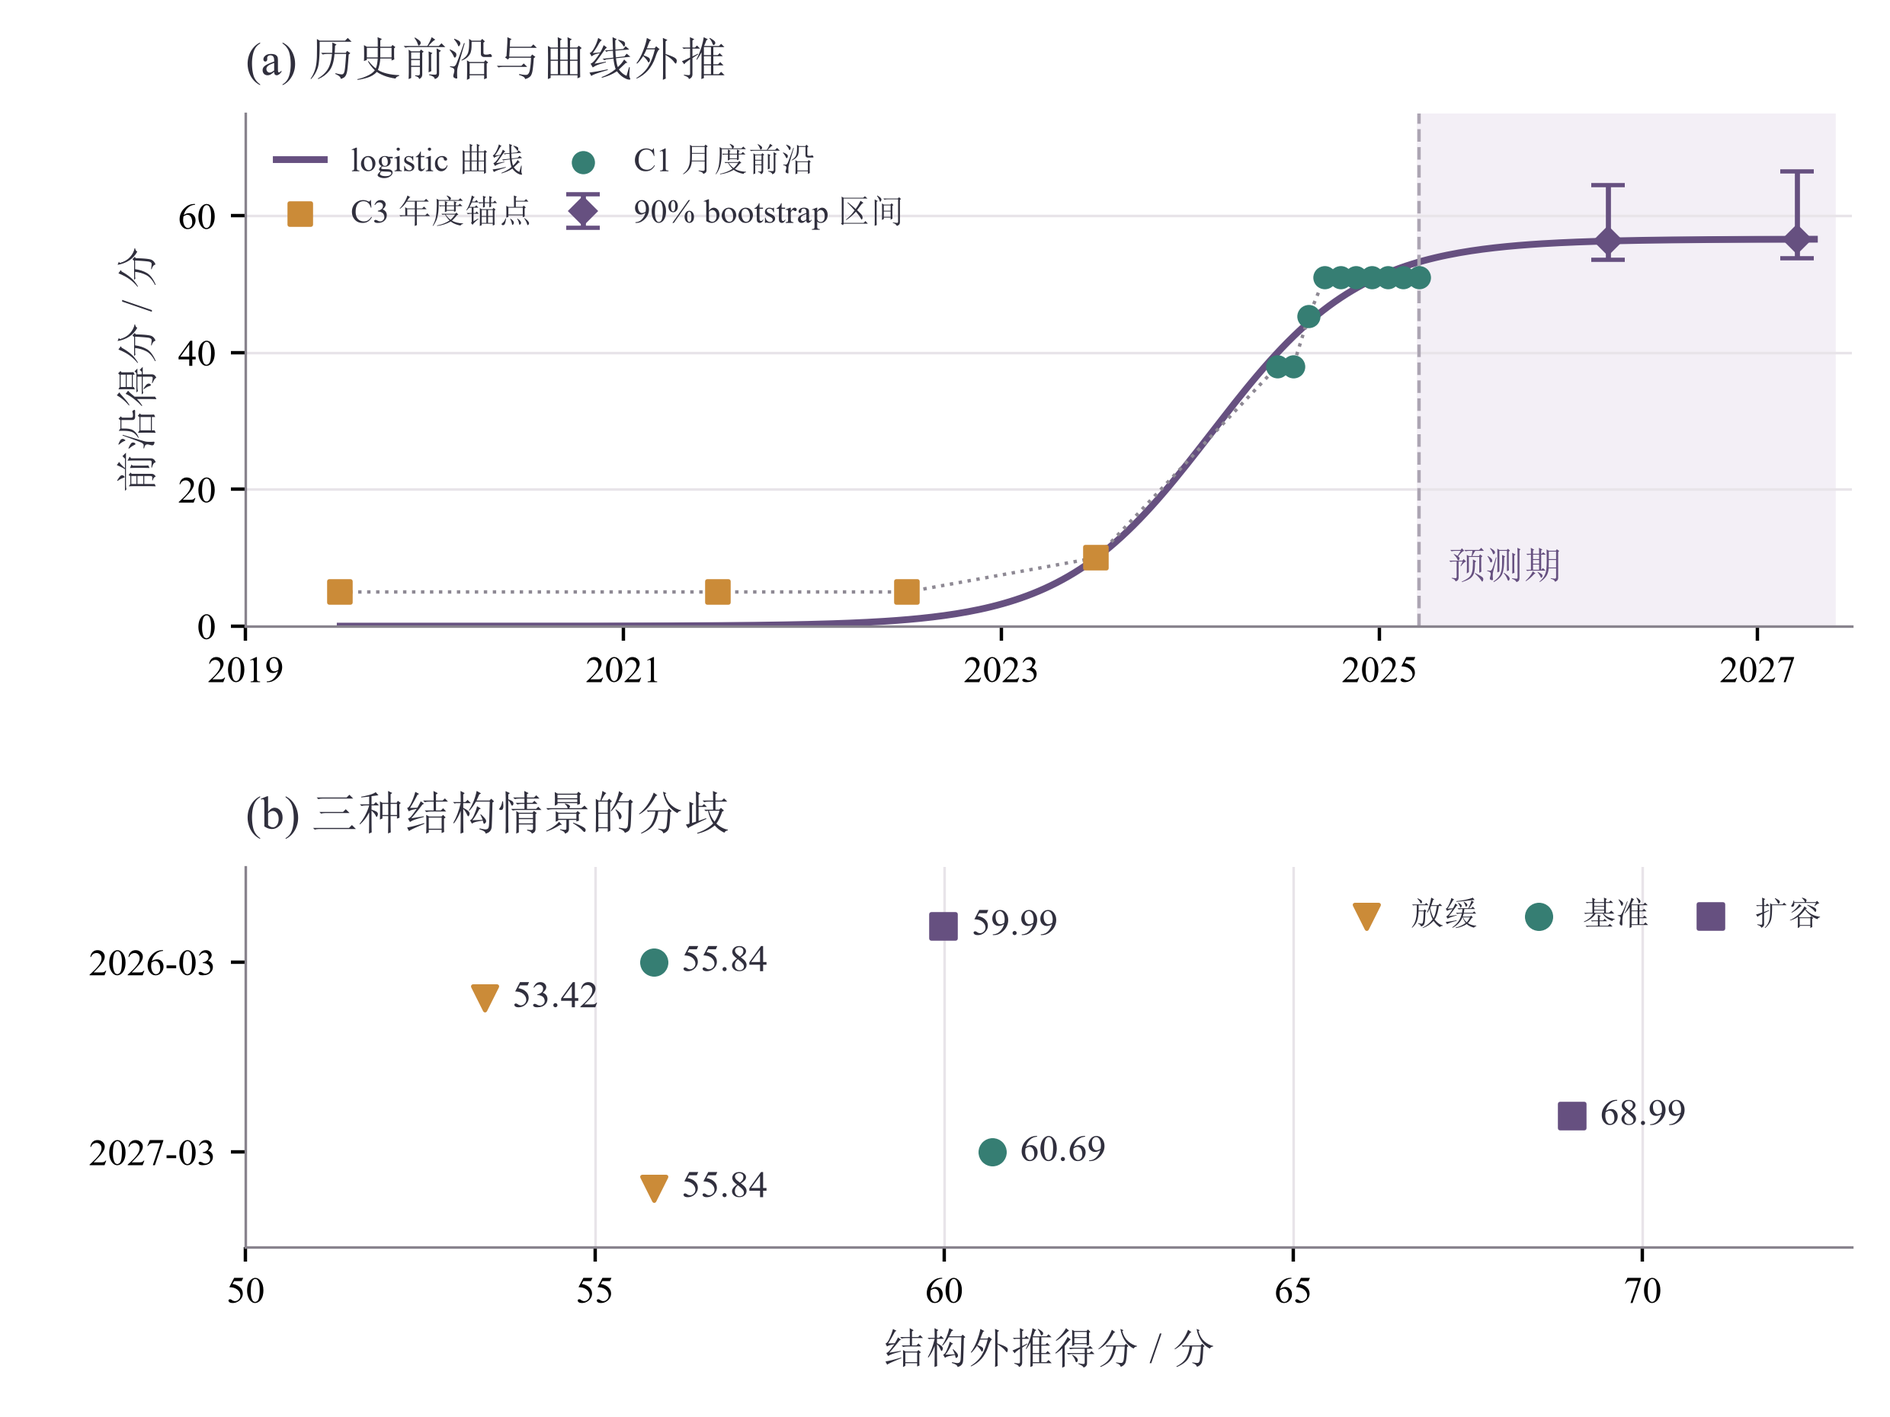
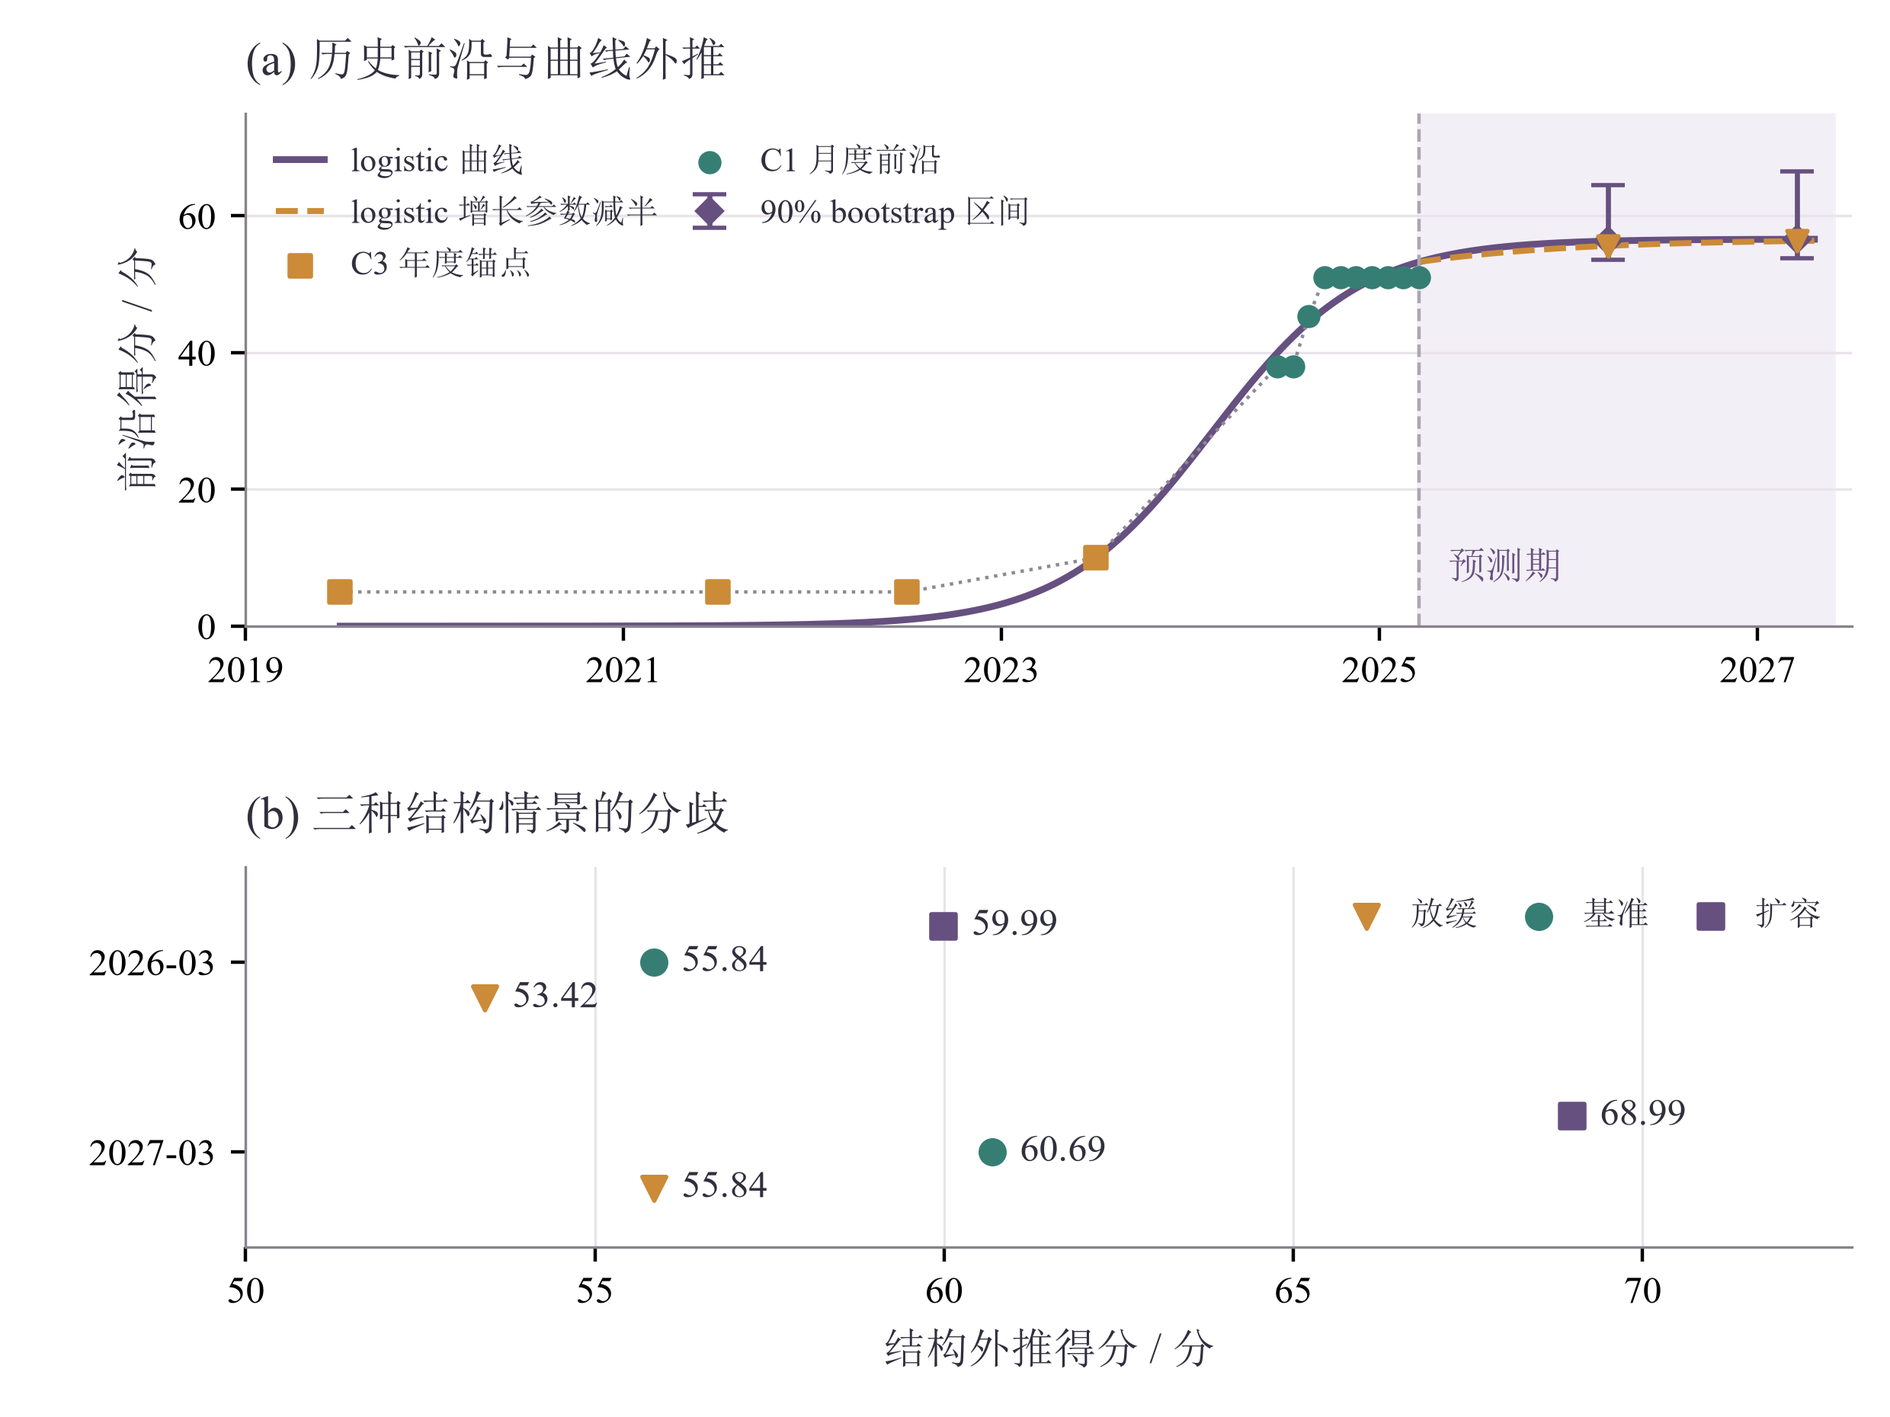
Align quality normalization and correct slowed logistic forecasts

Changed region(s): [[0.1552, 0.0935, 0.5589, 0.2183], [0.8383, 0.1559, 0.9625, 0.1871], [0.7762, 0.1559, 0.8073, 0.1871]]

diff --git a/论文/0.摘要.tex b/论文/0.摘要.tex
@@ -7,13 +7,13 @@
 
 训练算力有限时，多加参数、多用数据和提高语料质量会争用同一笔预算。怎样安排这些投入，才能取得较好的训练效果，是本文要解决的主要问题。我们从附件中的文本质量信号入手，先比较语料与配方，再分析投入对损失的影响，据此计算预算内的配置，最后讨论评测能力的历史变化和未来前沿。
 
-\textbf{针对问题一：} 先把 22 个指标整理为同向评分，再以熵权法逐层求出文本、语料和领域质量。列表型指标按类别数转为标量后作极差归一化，272,505 条记录中的 19 处缺失以中位数补齐；广告字段经原文抽查，确认“第 1 类=无广告”，按正向处理。指标分歧从两方面判断：成对标准化得分差衡量样本内的差别，Kendall 协同系数衡量整体排序的一致性；对标记出的冲突样本，再比较综合评分与所属领域中位数作判定。结果中，冲突比例为 22.3\%，独立参照为 28.9\%，但 Kendall 系数只有 0.069，可见存在共同倾向并不等于高度一致。从领域均分看，arxiv 位居首位，github 最低；中间由高到低为 stackexchange、c4、commoncrawl，随后是分数接近的 book 与 wikipedia。抽样与扩展记录的对照也较接近：arxiv 在 A1、A2/A3 中分别为 0.703、0.701，github 均为 0.455。配比部分用岭正则线性混合回归连接 17 个训练域与 13 个验证域。训练与 1M 同尺度检验的平均决定系数分别为 0.629 和 0.619；转到 60M、1B 后，以 Pearson 相关评价跨尺度趋势，对应为 0.782、0.651。加入混合质量指数仅使决定系数增加 0.000099，故另行考察质量投入，不在配比回归中重复加入这一线性组合。
+\textbf{针对问题一：} 先把 22 个指标整理为同向评分，再以熵权法逐层求出文本、语料和领域质量。列表型指标按类别数转为标量，质量指标采用 1\%--99\% 分位数截断归一化，272,505 条记录中的 19 处缺失以中位数补齐；广告字段经原文抽查，确认“第 1 类=无广告”，按正向处理。指标分歧从两方面判断：成对标准化得分差衡量样本内的差别，Kendall 协同系数衡量整体排序的一致性；对标记出的冲突样本，再比较综合评分与所属领域中位数作判定。结果中，冲突比例为 22.3\%，独立参照为 28.9\%，但 Kendall 系数只有 0.069，可见存在共同倾向并不等于高度一致。从领域均分看，arxiv 位居首位，github 最低；中间由高到低为 stackexchange、c4、commoncrawl，随后是分数接近的 book 与 wikipedia。抽样与扩展记录的对照也较接近：arxiv 在 A1、A2/A3 中分别为 0.703、0.701，github 均为 0.455。配比部分用岭正则线性混合回归连接 17 个训练域与 13 个验证域。训练与 1M 同尺度检验的平均决定系数分别为 0.629 和 0.619；转到 60M、1B 后，以 Pearson 相关评价跨尺度趋势，对应为 0.782、0.651。加入混合质量指数仅使决定系数增加 0.000099，故另行考察质量投入，不在配比回归中重复加入这一线性组合。
 
 \textbf{针对问题二：} 为判断改善语料能否代替部分规模投入，用 Pythia 轨迹建立经典标度律，经稳健非线性最小二乘拟合后，留出大模型检验。质量项则通过半合成实验比较四种形式，最终采用加性质量缺口项。经典拟合的决定系数为 0.9999998，广义模型在联合样本上为 0.9896；换用跨族、文献记录时，MAPE 分别为 8.8\%、8.0\%。在质量均为 0.6 时，模型导数给出的局部质量--参数替代率随起点明显变化：1B 参数配 100B tokens 时为 2.844 B/单位质量，12B 参数配 300B tokens 时为 76.838 B/单位质量。对于较大的质量增量，另用完整等损失关系求解，并给出有限等效解的条件。领域之间则先比较系数的中心化余弦相似度，再在损失尺度可迁移的前提下引入配比修正。B9/B10 的 128 条匹配记录用于对照大规模估算关系；质量效应的解释范围仍由半合成实验和跨来源尺度假设限定。
 
 \textbf{针对问题三：} 以问题二的损失为目标，把基础训练、语料质量处理和注意力费用合并为预算约束，固定配比后采用 SLSQP 求解。基准采用幂函数型质量成本、参考配比和 2048 tokens 上下文。三档预算给出的配置分属两个阶段：在 10 的 19 次方 FLOPs 下，0.225B 参数与 6.9B tokens 对应的质量仍为基线 0.551；在 10 的 22 次方和 10 的 24 次方 FLOPs 下，质量都达到 1.000，前者配置为 6.089B 参数、229.5B tokens，后者为 44.937B 参数、3418.0B tokens。进一步扫描预算，发现质量先维持基线，再逐步提高，最后达到上界。首次投入和首次饱和的有效网格点为 1.78×10 的 19 次方、7.08×10 的 19 次方 FLOPs，后一点的质量费用份额也达到最高值 40.7\%；网格只能定位阶段，不能确定精确临界值。成本公式还给出 30,000 tokens 的等费用长度。固定 10 的 22 次方 FLOPs，上下文由 2048 延长到 131072 tokens，参数配置由 6.089B 减至 2.705B，损失约上升 6.0\%。更换三类质量成本后，中高预算档均达到质量上界，低预算方案却有明显差别，因而仍需结合实际成本、评分衔接和外推范围使用。
 
-\textbf{针对问题四：} 按记录时间和许可白名单整理出 2,346 条主样本，用六项评测的均值表示综合能力，并对预训练类、对话及微调类分别分析。C6 的分层回归显示，损失与得分的 Pearson 相关为 −0.510，决定系数仅 0.26，因此只判断变化方向，不作精确换算。规模与年度回归得到：参数每扩大十倍，对应 13.84 分差异；规模相同时，年度变化为 4.84 分。历史分解显示出时间窗口的差别：C3 对应的 2019—2025 年增量中，规模项占 50.5\%，非规模项占 49.5\%；2024 年 6—9 月窗口的非规模项则占 95.4\%。非规模项还包含样本构成等未观测影响。以前沿在 2025 年 3 月的位置为起点，logistic 曲线预测 12、24 个月后为 56.3、56.6 分，90\% 区间依次为 53.6 至 64.5、53.8 至 66.5；结构情景若将非规模增速减半，则为 53.4、55.8 分。为进一步寻找短板，从 C8 有效解析的 1,860 个目录中取与主样本对应的 964 个目录，汇总 37 项子任务，并用 C4 观察宏观资源及字段覆盖。六维结果中，指令遵循距满分 10.0 分，研究生级问答、多步推理仍差 72.3、61.3 分，表明综合前沿上升并不意味着各项能力同步改善。
+\textbf{针对问题四：} 按记录时间和许可白名单整理出 2,346 条主样本，用六项评测的均值表示综合能力，并对预训练类、对话及微调类分别分析。C6 的分层回归显示，损失与得分的 Pearson 相关为 −0.510，决定系数仅 0.26，因此只判断变化方向，不作精确换算。规模与年度回归得到：参数每扩大十倍，对应 13.84 分差异；规模相同时，年度变化为 4.84 分。历史分解显示出时间窗口的差别：C3 对应的 2019—2025 年增量中，规模项占 50.5\%，非规模项占 49.5\%；2024 年 6—9 月窗口的非规模项则占 95.4\%。非规模项还包含样本构成等未观测影响。以前沿在 2025 年 3 月的位置为起点，logistic 曲线预测 12、24 个月后为 56.3、56.6 分，90\% 区间依次为 53.6 至 64.5、53.8 至 66.5；若将 logistic 增长参数减半，则为 55.6、56.3 分，结构情景将非规模增速减半时则为 53.4、55.8 分。为进一步寻找短板，从 C8 有效解析的 1,860 个目录中取与主样本对应的 964 个目录，汇总 37 项子任务，并用 C4 观察宏观资源及字段覆盖。六维结果中，指令遵循距满分 10.0 分，研究生级问答、多步推理仍差 72.3、61.3 分，表明综合前沿上升并不意味着各项能力同步改善。
 
 从上述结果看，质量应在何时投入、投入多少，都与预算和处理费用有关；模型扩容的收益也离不开数据条件。跨来源比较和未来预测仍有误差，使用具体数值时应同时保留相应条件。
 

diff --git a/论文/5.1.问题一.tex b/论文/5.1.问题一.tex
@@ -30,15 +30,20 @@ A4 与 A5 分别记录训练配方及其对应的验证损失，通过 index 关
 
 按索引关联的作用，是把同一次实验的输入配方与输出损失放在同一行。训练领域数与验证领域数不同，反映的是输入覆盖范围和评价任务覆盖范围的差别。缺少某个领域的验证列，并不意味着该领域没有进入训练；它在其他验证任务上的作用仍可通过配方占比参与拟合。后面的推荐模型据此区分可调整领域与固定参考占比的领域，使评价对象、拟合输入和优化变量之间保持对应。
 
-A1--A3 提供 SlimPajama 语料的 22 个质量指标\cite{slimpajama2025}。为使各指标能够共同参与评分，需要统一其方向。设第 $j$ 个指标的原始值为 $x_j$，正向指标作极差归一化，负向指标反向缩放；对于过长或过短均不合适的长度型指标，使用其与稳健中心的接近程度表示质量：
+A1--A3 提供 SlimPajama 语料的 22 个质量指标\cite{slimpajama2025}。列表值先转为标量，非有限值视为缺失并按全量记录中该指标的中位数填补。设处理后的值为 $x_{ij}$。对于过长或过短均不合适的长度型指标，先以稳健中心接近度作变换；其余指标保留原值：
 \begin{equation}
-    x'_j = \begin{cases}
-        \dfrac{x_j-\min x_j}{\max x_j-\min x_j}, & \text{正向指标}\\[6pt]
-        \dfrac{\max x_j-x_j}{\max x_j-\min x_j}, & \text{负向指标}\\[6pt]
-        \exp\!\left(-\dfrac{|\ln(1+x_j)-m_j|}{2.5\,\text{MAD}_j}\right), & \text{长度型指标}
+    u_{ij} = \begin{cases}
+        \exp\!\left(-\dfrac{|\ell_{ij}-m_j|}{2.5\,(\mathrm{MAD}_j+10^{-9})}\right), & \text{长度型指标},\\[6pt]
+        x_{ij}, & \text{其余指标},
     \end{cases}
 \end{equation}
-经上述变换，质量值统一至 $[0,1]$，数值越大表示质量越高。其中，$m_j$ 为对数值的中位数，$\text{MAD}_j$ 为对应的中位绝对偏差。由于列表型指标无法直接与标量合成，含多个有序类别的字段先通过 softmax 将类别 logits 转化为概率，再计算归一化期望级别；单元素列表则直接取其数值。两类结果均压缩为标量后参与后续评分。表\ref{tab:p1_dir}列出了各字段的含义、处理方向及计算权重。
+其中 $\ell_{ij}=\ln(1+\max(x_{ij},0))$，$m_j=\operatorname{median}_i\ell_{ij}$，$\mathrm{MAD}_j=\operatorname{median}_i|\ell_{ij}-m_j|$。随后对每个变换后指标，取 A1--A3 全量记录的第 1 和第 99 百分位数 $a_j$、$b_j$，进行分位数截断归一化，再对负向指标取补：
+\begin{equation}
+    v_{ij}=\operatorname{clip}_{[0,1]}\!\left(\frac{u_{ij}-a_j}{\max(b_j-a_j,10^{-12})}\right),
+    \qquad
+    x'_{ij}=\begin{cases}1-v_{ij},&\text{负向指标},\\v_{ij},&\text{其余指标}.\end{cases}
+\end{equation}
+其中 $\operatorname{clip}_{[0,1]}(v)=\min(1,\max(0,v))$；分位数按相邻顺序统计量线性插值得到。长度型指标也经过这一步缩放。各指标最终均取值于 $[0,1]$，且越大越好。与直接使用最小、最大值相比，分位数端点降低了极端值对缩放区间的影响，代价是端点外的差异不再保留。各领域及抽样、扩展集沿用同一组全量端点与权重，保证评分可比较。含多个有序类别的列表字段通过 softmax 将类别 logits 转为概率，再计算归一化期望级别；单元素列表直接取其数值。表\ref{tab:p1_dir}列出各字段的含义、方向及权重。
 
 \begingroup
 \setlength{\tabcolsep}{3pt}
@@ -65,7 +70,7 @@ A1--A3 提供 SlimPajama 语料的 22 个质量指标\cite{slimpajama2025}。为
   dsir\_\allowbreak{}books & 相对于书籍领域的重要性权重 & 标量 & 正向 & 0.0081 \\
   dsir\_\allowbreak{}wiki & 相对于维基领域的重要性权重 & 标量 & 正向 & 0.0081 \\
   dsir\_\allowbreak{}math & 相对于数学领域的重要性权重 & 标量 & 正向 & 0.0086 \\
-  qurater & 教育质量评级（4 项取均值） & 列表(4) & 正向 & 0.0492 \\
+  qurater & 教育质量评级（4 维 softmax 期望） & 列表(4) & 正向 & 0.0492 \\
   ad\_\allowbreak{}en & 广告含量（\textbf{第 1 类=“无广告”，正向}；依据：原文抽查） & 列表(2) & 正向 & 0.0072 \\
   rps\_\allowbreak{}doc\_\allowbreak{}word\_\allowbreak{}count & 文档包含的词总数 & 标量 & 长度型 & 0.0516 \\
   rps\_\allowbreak{}doc\_\allowbreak{}num\_\allowbreak{}sentences & 文档包含的句子总数 & 标量 & 长度型 & 0.0523 \\

diff --git a/求解/问题四/重绘图表.py b/求解/问题四/重绘图表.py
@@ -155,10 +155,15 @@ def forecast(lb, audit):
     xx=np.linspace(x.min(),2027.3,250)
     ax.axvspan(last,2027.4,color='#F3EFF6',zorder=0)
     ax.plot(xx,log(xx),color=PURPLE,lw=1.6,label='logistic 曲线')
+    slow_x=np.linspace(last,2027.3,100)
+    slow_y=log(last+0.5*(slow_x-last))
+    assert np.allclose(log(last+0.5*(pred.iloc[:,0]+2019-last)),pred['情景_技术增速减半'])
+    ax.plot(slow_x,slow_y,color=GOLD,lw=1.4,ls='--',label='logistic 增长参数减半')
     ax.plot(x,y,ls=':',lw=.8,color='#8E8994')
     ax.scatter(x[:len(hist)],y[:len(hist)],color=GOLD,marker='s',s=25,label='C3 年度锚点',zorder=3)
     ax.scatter(x[len(hist):],y[len(hist):],color=TEAL,marker='o',s=20,label='C1 月度前沿',zorder=3)
     xp=pred.iloc[:,0].to_numpy()+2019
+    ax.scatter(xp,pred['情景_技术增速减半'],marker='v',s=23,color=GOLD,zorder=4)
     ax.errorbar(xp,pred.frontier_pred,yerr=[pred.frontier_pred-pred['CI_low_5%'],pred['CI_high_95%']-pred.frontier_pred],fmt='D',color=PURPLE,capsize=4,ms=4,label='90% bootstrap 区间')
     ax.set(xlim=(2019,2027.5),ylim=(0,75),xticks=[2019,2021,2023,2025,2027],ylabel='前沿得分 / 分')
     ax.axvline(last,color='#ACA5B2',ls='--',lw=.8)

diff --git a/求解/问题一/问题一.py b/求解/问题一/问题一.py
@@ -5,7 +5,7 @@
 """
 问题一：数据质量评价、质量冲突消解与领域配比建模
 数据：附件 A（A1-A3 质量信号；A4-A15 配方/Loss；A16 域映射）
-方法：1) 22 指标方向统一 + 极差归一化 + 熵权法三级综合评分（样本/语料/领域）
+方法：1) 22 指标方向统一 + 1%--99% 分位数截断归一化 + 熵权法三级综合评分（样本/语料/领域）
       2) 成对 z 分数差冲突定义 + Kendall 协同系数一致性检验 + 多数方向裁决
       3) 岭正则线性混合回归刻画 17 域配比 -> 13 域损失，并检验追加质量项的增量解释力
 输出：图片到 图片/，结果 CSV 到 结果/
@@ -156,7 +156,7 @@ def load_quality_records():
     return X, M
 
 def orient_and_normalize(raw):
-    """方向统一 -> 极差归一化（正向缩放、负向取补、长度型转中心接近度）。"""
+    """方向统一 -> 分位数截断的稳健极差归一化（正向缩放、负向取补、长度型转中心接近度）。"""
     oriented = raw.copy()
     for c in TARGET_COLS:
         z = np.log1p(np.clip(raw[c].values, 0, None))

diff --git a/求解/问题四/问题四.py b/求解/问题四/问题四.py
@@ -398,11 +398,13 @@ for _ in range(600):
 boot = np.array(boot)
 lo, hi = np.percentile(boot, 5, axis=0), np.percentile(boot, 95, axis=0)
 
-# 情景分析：算力增长放缓 -> 技术增速减半
+# 条件情景：以 logistic 增长参数减半表征放缓，不估计算力到增长率的传导。
 def logistic_slow(t, K, r, t0, halve_from):
-    te = np.minimum(t, halve_from)
-    return K / (1 + np.exp(-r * (te - t0)))
-s_slow = logistic_slow(t_pred, K_fit, r_fit, t0_fit, t_pred[0] - 1)
+    """减速前沿用原曲线，减速后增长参数为 r/2，连接点连续。"""
+    t = np.asarray(t, dtype=float)
+    effective_t = np.minimum(t, halve_from) + 0.5 * np.maximum(t - halve_from, 0.0)
+    return logistic(effective_t, K, r, t0)
+s_slow = logistic_slow(t_pred, K_fit, r_fit, t0_fit, t_last)
 
 fut = pd.DataFrame({'t(2019起算年)': t_pred, '对应日历时点':
                     ['%d-%02d' % (2019 + int(np.floor(tt)), int(round((tt % 1) * 12)) + 1)
